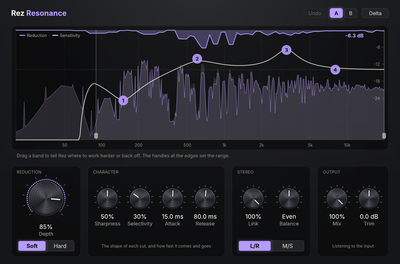
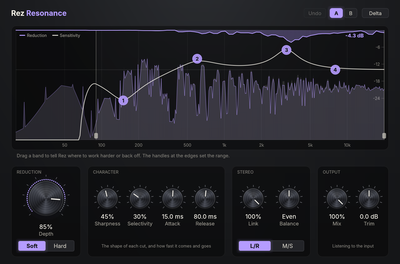
Rez: detection fitted to reference measurements
Fitted on the tuning test signal against exports of a reference
suppressor (flat curve; two depths, the ends of sharpness and
selectivity):

- Depth is a level gate: where the sound around a frequency is below
  the gate, less of the excess counts; more Depth lowers the gate.
- A built-in tilt: little work at the low end, full from about 4 kHz;
  the sensitivity bands still raise or lower it.
- Sharpness and Selectivity span much wider ranges, on curves, and the
  defaults are 45 % and 35 %.
- Detector power is scaled to one channel's worth so the gate reads the
  same for any channel count.

Adds tools/rez-tuning/compare.py (a side-by-side table of the cuts in
several processed copies of the test signal).

Claude-Session: https://claude.ai/code/session_01ToH89CTgQsLkXAFA8RHHQG

diff --git a/crates/dsp/src/plugins/rez.rs b/crates/dsp/src/plugins/rez.rs
@@ -2,7 +2,9 @@
 //!
 //! Rez listens for frequencies that stick out of the sound's own spectrum and turns down only
 //! those, only while they stick out. Nothing is cut by a fixed curve: the reference is the signal
-//! itself, so it behaves the same on quiet and loud material.
+//! itself. Its constants were fitted to measurements of a reference suppressor on the test signal
+//! in `tools/rez-tuning` (Depth 50 %, Sharpness 46 %, Selectivity 36 % here correspond to its 10,
+//! 4.6 and 3.6).
 //!
 //! Per frame (an STFT: 2048 points up to 50 kHz, a new frame every N/8 samples, root-Hann windows
 //! on the way in and out):
@@ -14,9 +16,12 @@
 //!    dB.
 //! 3. ENVELOPE: FINE averaged, in dB, over a wide band (Selectivity sets the width). This is what
 //!    the sound roughly looks like without its resonances.
-//! 4. EXCESS = FINE - ENVELOPE. Where it is above the threshold (Selectivity), the part above is
-//!    a cut request, scaled by Depth and by the SENSITIVITY at that frequency (the Low/High range
-//!    and four bands that raise or lower how hard Rez works there), limited to [`MAX_CUT_DB`].
+//! 4. EXCESS = FINE - ENVELOPE. The part of it above a small threshold is a cut request, scaled
+//!    by how hard Rez works at that frequency: a built-in tilt ([`tilt_weight`]: little at the
+//!    low end, in full from about 4 kHz up) times the SENSITIVITY (the Low/High range and four
+//!    bands that raise or lower it), limited to [`MAX_CUT_DB`]. Depth is a level gate on top:
+//!    where the sound around a frequency is quieter than the gate, less of the excess counts, and
+//!    more Depth lowers the gate, so quieter material is treated too.
 //! 5. Each bin's cut rises at once and falls back with Release.
 //! 6. The bins are scaled and the frame is resynthesised by overlap-add.
 //!
@@ -44,17 +49,59 @@ pub const MAX_CUT_DB: f32 = 30.0;
 const OVERLAP: usize = 8;
 /// The knee of the Soft mode, in dB.
 const SOFT_KNEE_DB: f32 = 6.0;
+/// dB of cut per dB of excess above the threshold, in the Soft mode.
+const SOFT_SLOPE: f32 = 0.82;
 /// How much harder the Hard mode cuts than Soft at the same Depth.
 const HARD_SLOPE: f32 = 1.5;
-/// The narrowest and widest FINE band (Sharpness 100 % and 0 %), in octaves.
-const FINE_OCT: (f32, f32) = (1.0 / 24.0, 1.0 / 3.0);
-/// The narrowest and widest ENVELOPE band (Selectivity 100 % and 0 %), in octaves.
-const ENV_OCT: (f32, f32) = (0.75, 2.5);
-/// The lowest and highest threshold (Selectivity 0 % and 100 %), in dB of excess.
-const THRESHOLD_DB: (f32, f32) = (1.0, 7.0);
+/// The narrowest and widest FINE band (Sharpness 100 % and 0 %), in octaves, and the curve of
+/// the way between them (below 1: most of the narrowing happens early in the knob's travel).
+const FINE_OCT: (f32, f32) = (0.02, 2.5);
+const FINE_CURVE: f32 = 0.55;
+/// At the bottom of Sharpness the cuts are so broad they do little: the slope there, rising to 1
+/// by [`SHARP_FULL_AT`] of the knob's travel.
+const SHARP_LOW_SLOPE: f32 = 0.3;
+const SHARP_FULL_AT: f32 = 0.3;
+/// The narrowest and widest ENVELOPE band (Selectivity 100 % and 0 %), in octaves, and the curve
+/// of the way between them (above 1: most of the narrowing happens late in the knob's travel).
+const ENV_OCT: (f32, f32) = (0.17, 4.0);
+const ENV_CURVE: f32 = 2.0;
+/// At the bottom of Selectivity everything is cut a little less: the slope there, rising to 1
+/// by [`SELECT_FULL_AT`] of the knob's travel.
+const SELECT_LOW_SLOPE: f32 = 0.8;
+const SELECT_FULL_AT: f32 = 0.36;
+/// The excess, in dB, above which Rez cuts.
+const THRESHOLD_DB: f32 = 1.25;
+/// Depth is a level gate: where the sound around a frequency (its ENVELOPE) is above the gate,
+/// a resonance there is cut in full; for every dB the sound is below it, [`GATE_RATIO`] dB of the
+/// excess no longer counts, eased in over [`GATE_KNEE_DB`]. The gate, in dBFS, at Depth 0 %, and
+/// how far each percent of Depth lowers it.
+const GATE_DB_AT_ZERO: f32 = -23.0;
+const GATE_DB_PER_PERCENT: f32 = 0.86;
+const GATE_RATIO: f32 = 0.27;
+const GATE_KNEE_DB: f32 = 9.0;
+/// The gate reads the level with this many dB per octave added around 1 kHz (so sound that falls
+/// away toward the highs, as most does, is gated evenly).
+const GATE_TILT_DB_PER_OCT: f32 = 3.0;
+/// Below this much Depth the cut fades out altogether (0 % is off).
+const DEPTH_FADE_PERCENT: f32 = 7.5;
+/// How hard Rez works by frequency, before the range and the bands: (Hz, weight) points joined
+/// by straight lines on log-log axes. It leaves the low end nearly alone and works in full from
+/// about 4 kHz up.
+const TILT: [(f32, f32); 10] = [
+    (60.0, 0.015),
+    (120.0, 0.022),
+    (250.0, 0.052),
+    (500.0, 0.098),
+    (1000.0, 0.157),
+    (2000.0, 0.337),
+    (4000.0, 0.74),
+    (8000.0, 0.78),
+    (14_000.0, 1.05),
+    (20_000.0, 1.05),
+];
 /// FINE never averages fewer than this many bins each side (the low end, where a fraction of an
 /// octave is less than a bin).
-const MIN_HALF_BINS: f32 = 1.5;
+const MIN_HALF_BINS: f32 = 1.0;
 /// Power below this is silence (-200 dB): keeps the logarithm finite.
 const POWER_FLOOR: f32 = 1.0e-20;
 /// The most a sensitivity above 0 dB multiplies the cut by (+12 dB).
@@ -109,8 +156,8 @@ pub const BAND_Q: (f32, f32) = (0.3, 8.0);
 
 static REZ_PARAMS: [ParamInfo; P_BANDS + BANDS * BAND_PARAMS] = [
     lin("depth", "Depth", 0.0, 100.0, 50.0, Unit::Percent),
-    lin("sharpness", "Sharpness", 0.0, 100.0, 50.0, Unit::Percent),
-    lin("selectivity", "Selectivity", 0.0, 100.0, 50.0, Unit::Percent),
+    lin("sharpness", "Sharpness", 0.0, 100.0, 45.0, Unit::Percent),
+    lin("selectivity", "Selectivity", 0.0, 100.0, 35.0, Unit::Percent),
     log("attack", "Attack", 1.0, 200.0, 15.0, Unit::Ms),
     log("release", "Release", 5.0, 1000.0, 80.0, Unit::Ms),
     log("low", "Low", 20.0, 2000.0, 60.0, Unit::Hz),
@@ -212,10 +259,32 @@ pub fn bands_db(bands: &[Band; BANDS], hz: f32) -> f32 {
     bands.iter().map(|b| b.db_at(hz)).sum()
 }
 
-/// What the cut at `hz` is multiplied by: the range times the bands (0..=[`MAX_WEIGHT`]).
+/// How hard Rez works at `hz` before the range and the bands have their say: [`TILT`].
+pub fn tilt_weight(hz: f32) -> f32 {
+    let (first, last) = (TILT[0], TILT[TILT.len() - 1]);
+    if hz.is_nan() || hz <= 0.0 {
+        return 0.0;
+    }
+    if hz <= first.0 {
+        // Below the table: in proportion to the frequency.
+        return first.1 * hz / first.0;
+    }
+    for pair in TILT.windows(2) {
+        if let [(f0, w0), (f1, w1)] = *pair
+            && hz <= f1
+        {
+            let t = (hz / f0).ln() / (f1 / f0).ln();
+            return w0 * (w1 / w0).powf(t);
+        }
+    }
+    last.1
+}
+
+/// What the cut at `hz` is multiplied by: the tilt, the range and the bands (the last two
+/// together at most [`MAX_WEIGHT`]).
 fn weight_at(low: f32, high: f32, bands: &[Band; BANDS], hz: f32) -> f32 {
     let w = range_weight(low, high, hz) * db_to_gain(bands_db(bands, hz));
-    if w.is_finite() { w.clamp(0.0, MAX_WEIGHT) } else { 0.0 }
+    if w.is_finite() { w.clamp(0.0, MAX_WEIGHT) * tilt_weight(hz) } else { 0.0 }
 }
 
 /// The frame length for a sample rate: 2048 up to 50 kHz, doubling with the rate.
@@ -303,6 +372,8 @@ struct Tables {
     env_lo: Vec<f32>,
     env_hi: Vec<f32>,
     weight: Vec<f32>,
+    /// What the gate adds to the level it reads at each bin, in dB ([`GATE_TILT_DB_PER_OCT`]).
+    gate_tilt: Vec<f32>,
     cum: Vec<f64>,
     fine_db: Vec<f32>,
     env_db: Vec<f32>,
@@ -389,6 +460,7 @@ impl Engine {
                 env_lo: vec![0.0; bins],
                 env_hi: vec![0.0; bins],
                 weight: vec![0.0; bins],
+                gate_tilt: (0..bins).map(|k| if k == 0 { 0.0 } else { GATE_TILT_DB_PER_OCT * (k as f32 * sr / n as f32 / 1000.0).log2() }).collect(),
                 cum: vec![0.0; bins + 1],
                 fine_db: vec![0.0; bins],
                 env_db: vec![0.0; bins],
@@ -416,7 +488,8 @@ struct Settings {
     /// dB of cut per dB of excess above the threshold.
     slope: f32,
     knee: f32,
-    threshold: f32,
+    /// The level gate (Depth), as a detector power: a bin at this power gets half its cut.
+    gate_power: f32,
     /// One-pole coefficients per frame.
     attack: f32,
     release: f32,
@@ -479,10 +552,16 @@ fn detect(d: &mut Detector, t: &mut Tables, s: &Settings, amount: f32) -> f32 {
     for ((v, lo), hi) in t.env_db.iter_mut().zip(&t.env_lo).zip(&t.env_hi) {
         *v = band_mean(&t.cum, *lo, *hi);
     }
-    // 4 and 5. The cut request, and the cut that follows it.
+    // 4 and 5. The cut request (the excess counts for less the further the sound around it is
+    // below the gate), and the cut that follows it.
+    let gate_db = 10.0 * (s.gate_power.max(POWER_FLOOR)).log10();
     let mut deepest = 0.0f32;
-    for (((cut, f), v), w) in d.cut.iter_mut().zip(&t.fine_db).zip(&t.env_db).zip(&t.weight) {
-        let want = (cut_for(f - v - s.threshold, s.slope, s.knee) * w * amount).clamp(0.0, MAX_CUT_DB);
+    for ((((cut, f), v), w), tilt) in d.cut.iter_mut().zip(&t.fine_db).zip(&t.env_db).zip(&t.weight).zip(&t.gate_tilt) {
+        // How far below the gate, eased in: knee * ln(1 + e^(below / knee)).
+        let below = (gate_db - v - tilt) / GATE_KNEE_DB;
+        let below = if below > 20.0 { below } else { below.exp().ln_1p() } * GATE_KNEE_DB;
+        let over = f - v - THRESHOLD_DB - GATE_RATIO * below;
+        let want = (cut_for(over, s.slope, s.knee) * w * amount).clamp(0.0, MAX_CUT_DB);
         let now = if want >= *cut { want } else { want + (*cut - want) * s.release };
         *cut = if now.is_finite() && now > 1.0e-4 { now } else { 0.0 };
         deepest = deepest.max(*cut);
@@ -565,9 +644,11 @@ impl Rez {
         let sharp = self.p.v(P_SHARPNESS) / 100.0;
         let select = self.p.v(P_SELECTIVITY) / 100.0;
         let hard = self.p.choice(P_MODE) == 1;
-        self.s.slope = self.p.v(P_DEPTH) / 100.0 * if hard { HARD_SLOPE } else { 1.0 };
+        let depth = self.p.v(P_DEPTH);
+        let select_slope = SELECT_LOW_SLOPE + (1.0 - SELECT_LOW_SLOPE) * (select / SELECT_FULL_AT).clamp(0.0, 1.0);
+        let sharp_slope = SHARP_LOW_SLOPE + (1.0 - SHARP_LOW_SLOPE) * (sharp / SHARP_FULL_AT).clamp(0.0, 1.0);
+        self.s.slope = SOFT_SLOPE * select_slope * sharp_slope * if hard { HARD_SLOPE } else { 1.0 } * (depth / DEPTH_FADE_PERCENT).clamp(0.0, 1.0);
         self.s.knee = if hard { 0.0 } else { SOFT_KNEE_DB };
-        self.s.threshold = THRESHOLD_DB.0 + (THRESHOLD_DB.1 - THRESHOLD_DB.0) * select;
         self.s.mix = self.p.v(P_MIX) / 100.0;
         self.s.trim = db_to_gain(self.p.v(P_TRIM));
         self.s.delta = self.p.on(P_DELTA);
@@ -583,8 +664,12 @@ impl Rez {
         self.s.release = coef(self.p.v(P_RELEASE));
 
         // Half a band, as a frequency ratio.
-        let fine = 2.0f32.powf(0.5 * log_lerp(FINE_OCT.1, FINE_OCT.0, sharp));
-        let env = 2.0f32.powf(0.5 * log_lerp(ENV_OCT.1, ENV_OCT.0, select));
+        let fine = 2.0f32.powf(0.5 * log_lerp(FINE_OCT.1, FINE_OCT.0, sharp.powf(FINE_CURVE)));
+        let env = 2.0f32.powf(0.5 * log_lerp(ENV_OCT.1, ENV_OCT.0, select.powf(ENV_CURVE)));
+        // The gate as a detector power: a full-scale sine's bin holds (n / pi)^2 (the root-Hann
+        // window's sum, halved, squared).
+        let full_scale = (e.n as f32 / std::f32::consts::PI).powi(2);
+        self.s.gate_power = full_scale * db_to_gain(GATE_DB_AT_ZERO - GATE_DB_PER_PERCENT * depth).powi(2);
         let top = (e.bins - 1) as f32;
         let hz_per_bin = self.sr / e.n as f32;
         let (low, high) = (self.p.v(P_LOW), self.p.v(P_HIGH));
@@ -594,9 +679,9 @@ impl Rez {
             let kf = k as f32;
             *fine_lo = (kf / fine).min(kf - MIN_HALF_BINS).max(-0.5);
             *fine_hi = (kf * fine).max(kf + MIN_HALF_BINS).min(top + 0.5);
-            // The envelope is at least three times as wide as the fine band, and never reaches
-            // below bin 1 (DC is not part of the sound).
-            let half = (kf - *fine_lo).max(*fine_hi - kf) * 3.0;
+            // The envelope is at least twice as wide as the fine band, and never reaches below
+            // bin 1 (DC is not part of the sound).
+            let half = (kf - *fine_lo).max(*fine_hi - kf) * 2.0;
             *env_lo = (kf / env).min(kf - half).max(0.5);
             *env_hi = (kf * env).max(kf + half).min(top + 0.5);
             *weight = if k == 0 { 0.0 } else { weight_at(low, high, &bands, kf * hz_per_bin) };
@@ -644,11 +729,19 @@ impl Rez {
                 *p += bin.norm_sqr();
             }
         }
+        // (Scaled back to one channel's worth, so the level gate reads the same however many
+        // channels are heard.)
         if let [a, b] = e.detectors.as_mut_slice() {
+            let scale = 1.0 / (1.0 + s.link);
             for (pa, pb) in a.power.iter_mut().zip(b.power.iter_mut()) {
                 let (x, y) = (*pa, *pb);
-                *pa = x + s.link * y;
-                *pb = y + s.link * x;
+                *pa = (x + s.link * y) * scale;
+                *pb = (y + s.link * x) * scale;
+            }
+        } else if let Some(d) = e.detectors.first_mut() {
+            let scale = 1.0 / heard.len().max(1) as f32;
+            for p in &mut d.power {
+                *p *= scale;
             }
         }
         let mut deepest = 0.0f32;
@@ -908,17 +1001,48 @@ mod tests {
     }
 
     #[test]
-    fn the_cut_does_not_depend_on_the_input_level() {
-        let cut_at = |gain: f32| {
+    fn depth_is_a_level_gate() {
+        // The cut of a 4 kHz tone in noise at `depth` percent, the input scaled by `gain`.
+        let cut_at = |depth: f32, gain: f32| {
             let mut r = prepared();
+            r.set_param("depth", depth);
             let len = 72_000;
-            let x: Vec<f32> = pink(len, 5).iter().zip(sine(3000.0, 0.1, len)).map(|(n, t)| (n * 0.2 + t) * gain).collect();
+            let x: Vec<f32> = pink(len, 5).iter().zip(sine(4000.0, 0.1, len)).map(|(n, t)| (n * 0.2 + t) * gain).collect();
             let y = run(&mut r, &x);
             let lat = r.latency();
-            level_at(&x[24_000..len - lat], 3000.0) - level_at(&y[lat + 24_000..], 3000.0)
+            level_at(&x[24_000..len - lat], 4000.0) - level_at(&y[lat + 24_000..], 4000.0)
         };
-        let (loud, quiet) = (cut_at(1.0), cut_at(0.01));
-        assert!((loud - quiet).abs() < 0.2, "cut {loud} dB loud, {quiet} dB quiet");
+        // Deep: loud and 40 dB quieter are cut alike.
+        let (loud, quiet) = (cut_at(100.0, 1.0), cut_at(100.0, 0.01));
+        assert!(loud > 6.0 && (loud - quiet).abs() < 1.0, "depth 100 %: {loud} dB loud, {quiet} dB quiet");
+        // Shallow: the quiet one falls below the gate and is cut much less.
+        let (loud, quiet) = (cut_at(15.0, 1.0), cut_at(15.0, 0.01));
+        assert!(loud > 3.0 && quiet < loud * 0.6, "depth 15 %: {loud} dB loud, {quiet} dB quiet");
+        // More depth never cuts less, and none cuts nothing.
+        assert!(cut_at(50.0, 0.1) >= cut_at(15.0, 0.1));
+        assert!(cut_at(0.0, 1.0).abs() < 0.05);
+    }
+
+    #[test]
+    fn rez_works_harder_toward_the_highs_and_a_band_can_bring_the_lows_back() {
+        let cut = |hz: f32, set: &dyn Fn(&mut Rez)| {
+            let mut r = prepared();
+            set(&mut r);
+            let len = 72_000;
+            let x: Vec<f32> = pink(len, 61).iter().zip(sine(hz, 0.1, len)).map(|(n, t)| n * 0.2 + t).collect();
+            let y = run(&mut r, &x);
+            let lat = r.latency();
+            level_at(&x[24_000..len - lat], hz) - level_at(&y[lat + 24_000..], hz)
+        };
+        let (low, high) = (cut(500.0, &|_| {}), cut(5000.0, &|_| {}));
+        assert!(high > 3.0 * low, "500 Hz cut {low} dB, 5 kHz {high} dB");
+        let lifted = cut(500.0, &|r| {
+            r.set_param("b2_freq", 500.0);
+            r.set_param("b2_gain", 12.0);
+        });
+        assert!(lifted > 2.5 * low, "+12 dB of sensitivity at 500 Hz: {lifted} dB against {low} dB");
+        assert!(tilt_weight(100.0) < tilt_weight(1000.0) && tilt_weight(1000.0) < tilt_weight(8000.0));
+        assert_eq!(tilt_weight(0.0), 0.0);
     }
 
     #[test]
@@ -963,8 +1087,8 @@ mod tests {
     fn a_key_decides_where_the_input_is_cut() {
         let mut r = prepared();
         let len = 72_000;
-        let x: Vec<f32> = pink(len, 23).iter().zip(sine(1000.0, 0.01, len)).map(|(n, t)| n * 0.2 + t).collect();
-        let key: Vec<f32> = pink(len, 29).iter().zip(sine(1000.0, 0.2, len)).map(|(n, t)| n * 0.2 + t).collect();
+        let x: Vec<f32> = pink(len, 23).iter().zip(sine(4000.0, 0.01, len)).map(|(n, t)| n * 0.2 + t).collect();
+        let key: Vec<f32> = pink(len, 29).iter().zip(sine(4000.0, 0.2, len)).map(|(n, t)| n * 0.2 + t).collect();
         let mut y = Vec::with_capacity(len);
         for (xb, kb) in x.chunks(512).zip(key.chunks(512)) {
             let mut io = vec![xb.to_vec(), xb.to_vec()];
@@ -973,8 +1097,8 @@ mod tests {
             y.extend_from_slice(&io[0]);
         }
         let lat = r.latency();
-        let cut = level_at(&x[24_000..len - lat], 1000.0) - level_at(&y[lat + 24_000..], 1000.0);
-        assert!(cut > 6.0, "the key's 1 kHz resonance cut the input by only {cut} dB");
+        let cut = level_at(&x[24_000..len - lat], 4000.0) - level_at(&y[lat + 24_000..], 4000.0);
+        assert!(cut > 6.0, "the key's 4 kHz resonance cut the input by only {cut} dB");
     }
 
     #[test]

diff --git a/tools/rez-tuning/compare.py b/tools/rez-tuning/compare.py
@@ -1,0 +1,40 @@
+#!/usr/bin/env python3
+"""Side-by-side table of the cuts in several processed copies of the Rez test signal.
+
+    python3 tools/rez-tuning/compare.py label=file.wav [label=file.wav ...]
+
+One row per segment and resonance, one column per file: the cut in dB in a sixth-octave band at
+the resonance (input minus output, the first 0.75 s of the segment skipped); segments without a
+listed resonance show the overall level change instead.
+"""
+import json, sys
+import numpy as np
+from analyze import HERE, band_db, read_any, rms_db
+
+def main():
+    segs = json.load(open(HERE / "rez_test_segments.json"))["segments"]
+    sr, dry = read_any(HERE / "rez_test_48k_24bit.wav")
+    cols = []
+    for arg in sys.argv[1:]:
+        label, path = arg.split("=", 1)
+        _, wet = read_any(path)
+        cols.append((label, wet[: len(dry)]))
+    print(f"{'segment':22} {'at':>8} " + " ".join(f"{l:>9}" for l, _ in cols))
+    for s in segs:
+        if s["name"].startswith("sync"):
+            continue
+        a, b = int(s["start_s"] * sr), int((s["start_s"] + s["dur_s"]) * sr)
+        skip = min(int(0.75 * sr), (b - a) // 2)
+        peaks = s.get("peaks", [])
+        if len(peaks) > 4:
+            peaks = peaks[::3]
+        rows = [(f"{p[0]:g}Hz", p[0]) for p in peaks] or [("level", None)]
+        for tag, f0 in rows:
+            vals = []
+            for _, wet in cols:
+                d, w = dry[a + skip:b], wet[a + skip:b]
+                vals.append(rms_db(d) - rms_db(w) if f0 is None else band_db(d, sr, f0, 1 / 6) - band_db(w, sr, f0, 1 / 6))
+            print(f"{s['name']:22} {tag:>8} " + " ".join(f"{v:9.2f}" for v in vals))
+
+if __name__ == "__main__":
+    main()
